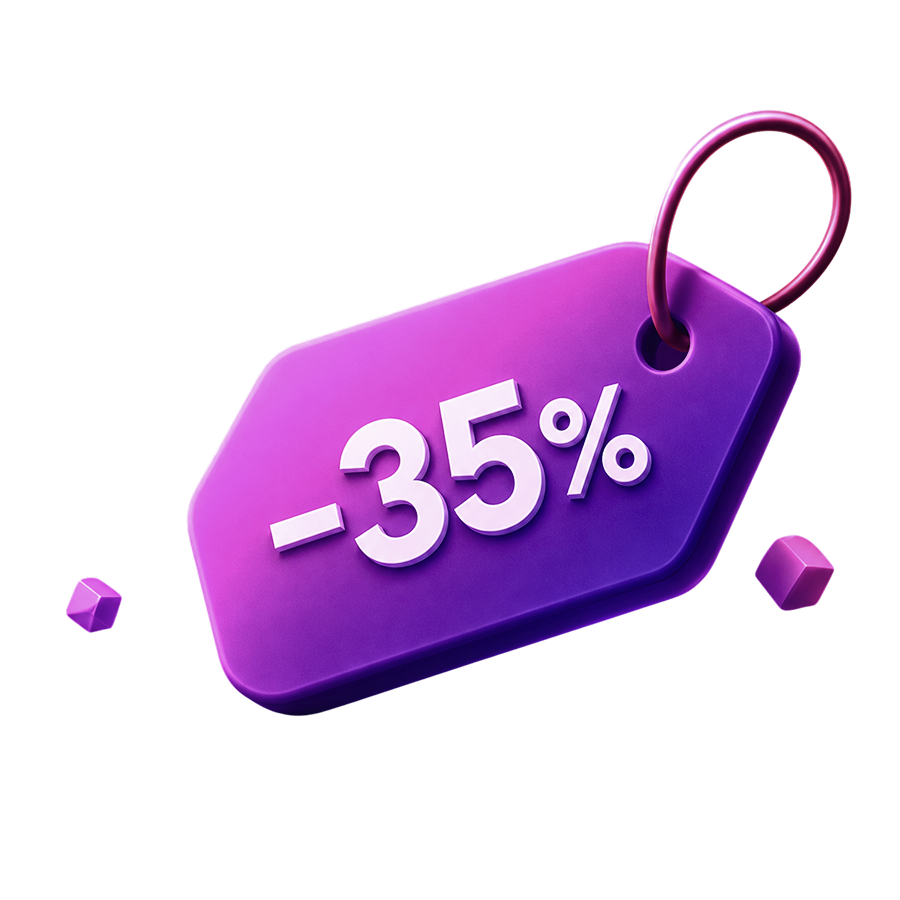
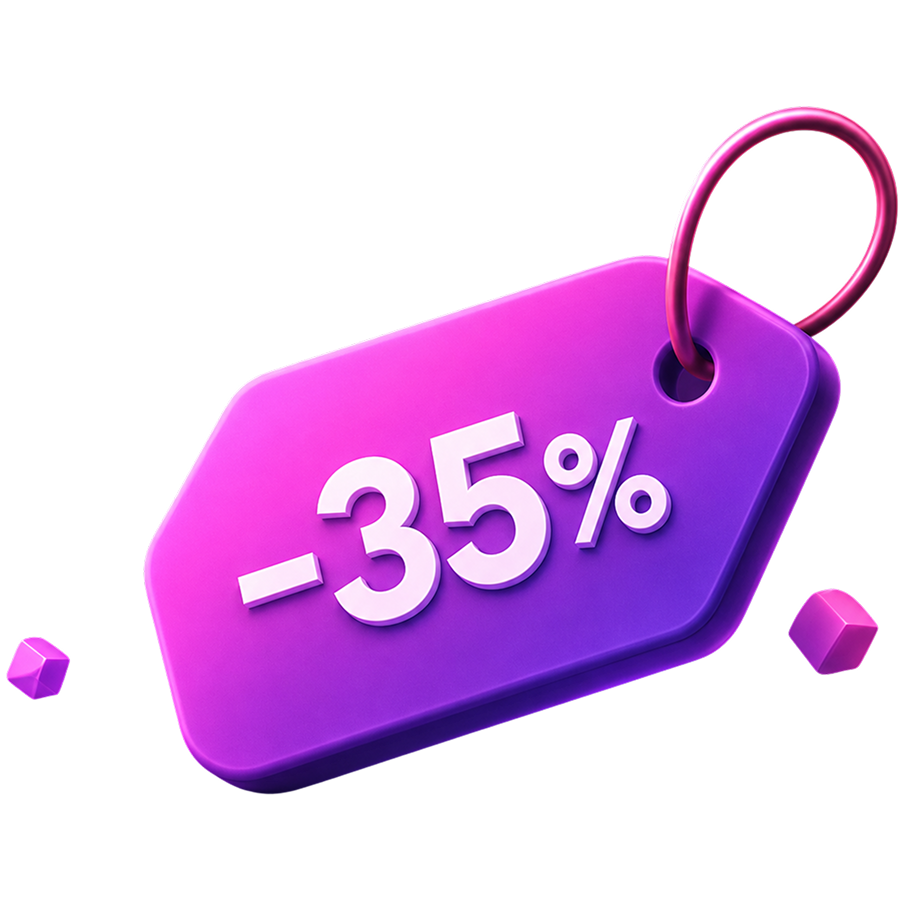
changes

diff --git a/style.css b/style.css
@@ -571,18 +571,27 @@ button { font-family: inherit; cursor: pointer; }
 .card--inside-1 > :not(.card__img),
 .card--inside-2 > :not(.card__img),
 .card--inside-3 > :not(.card__img) {
-  max-width: 50%;
+  max-width: 62%;
 }
 
 .card--inside-5 .card__body {
-  max-width: 52%;
+  max-width: 58%;
 }
 
-.card__img--inside-1 { right: 16px; bottom: 16px; width: 40%; }
-.card__img--inside-2 { right: 16px; bottom: 18px; width: 44%; mix-blend-mode: lighten; }
-.card__img--inside-3 { right: 16px; bottom: 18px; width: 44%; mix-blend-mode: lighten; }
-.card__img--inside-4 { right: 18px; top: 50%; transform: translateY(-50%); width: 42%; mix-blend-mode: lighten; }
-.card__img--inside-5 { right: 18px; top: 18px; width: 58%; mix-blend-mode: lighten; transform: rotate(-4deg); transform-origin: center; }
+.card__img--inside-1,
+.card__img--inside-2,
+.card__img--inside-3,
+.card__img--inside-4,
+.card__img--inside-5 {
+  max-width: none;
+  max-height: none;
+}
+
+.card__img--inside-1 { right: -52px; bottom: -30px; width: 56%; }
+.card__img--inside-2 { right: -46px; bottom: -42px; width: 60%; mix-blend-mode: lighten; }
+.card__img--inside-3 { right: -52px; bottom: -36px; width: 60%; mix-blend-mode: lighten; }
+.card__img--inside-4 { right: -38px; bottom: -40px; width: 46%; mix-blend-mode: lighten; }
+.card__img--inside-5 { right: -56px; bottom: -48px; width: 58%; mix-blend-mode: lighten; transform: rotate(-4deg); transform-origin: center; }
 
 .card--bonus { border-style: dashed; }
 .btn--inside { align-self: flex-start; margin-top: auto; position: relative; z-index: 2; }
@@ -598,7 +607,7 @@ button { font-family: inherit; cursor: pointer; }
   .card--inside-2 > :not(.card__img),
   .card--inside-3 > :not(.card__img),
   .card--inside-5 .card__body {
-    max-width: 50%;
+    max-width: 58%;
   }
   .card__img--inside-4 { right: 16px; top: 20px; transform: none; width: 48%; }
 }
